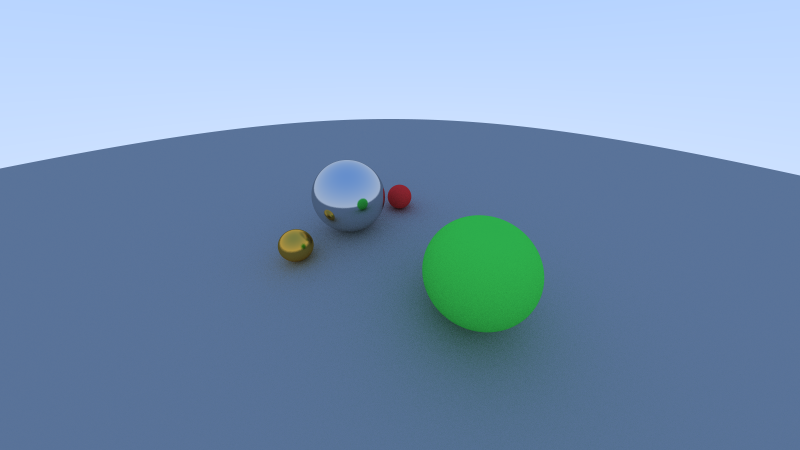
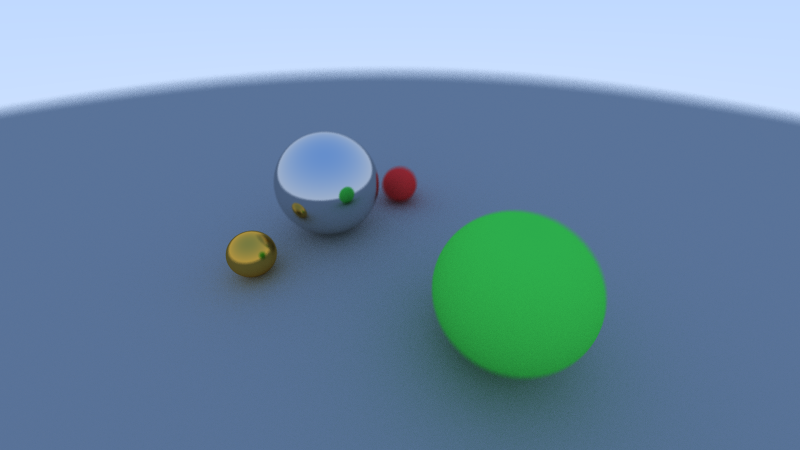
camera: aperture

Changed region(s): [[0.0, 0.1556, 1.0, 0.6533], [0.5, 0.4667, 0.7812, 0.9644]]

diff --git a/src/scene/camera.rs b/src/scene/camera.rs
@@ -1,4 +1,4 @@
-use crate::{ray::Ray, vec3::Coord};
+use crate::{coord_ext::CoordRandomExt, ray::Ray, vec3::Coord};
 
 pub struct Camera {
     pub aspect_ratio: f64,
@@ -7,6 +7,7 @@ pub struct Camera {
     corner: Coord,
     horizontal: Coord,
     vertical: Coord,
+    lens_radius: f64,
 }
 
 impl Camera {
@@ -25,6 +26,8 @@ impl Camera {
         origin: Coord,
         look_at: Coord,
         vup: Coord,
+        aperture: f64,
+        focus_dist: f64,
     ) -> Self {
         let theta = vertical_fov.to_radians();
         let h = (theta / 2.).tan();
@@ -35,9 +38,11 @@ impl Camera {
         let u = vup.cross(w).unit();
         let v = w.cross(u);
 
-        let horizontal = u * vp_width;
-        let vertical = v * vp_height;
-        let corner: Coord = origin - horizontal / 2. - vertical / 2. - w;
+        let horizontal = u * vp_width * focus_dist;
+        let vertical = v * vp_height * focus_dist;
+        let corner: Coord = origin - horizontal / 2. - vertical / 2. - w * focus_dist;
+
+        let lens_radius = aperture / 2.;
 
         Self {
             aspect_ratio,
@@ -45,13 +50,16 @@ impl Camera {
             corner,
             horizontal,
             vertical,
+            lens_radius,
         }
     }
 
     pub fn ray(&self, u: f64, v: f64) -> Ray {
+        let offset_origin = Coord::random_in_unit_z_disk() * self.lens_radius + self.origin;
         let dir: Coord =
-            (self.corner + self.horizontal * u + self.vertical * v - self.origin).unit();
-        Ray::new(self.origin, dir)
+            (self.corner + self.horizontal * u + self.vertical * v - offset_origin).unit();
+
+        Ray::new(offset_origin, dir)
     }
 }
 
@@ -63,18 +71,25 @@ impl Default for Camera {
             Coord::new(0., 0., 0.),
             Coord::new(0., 0., -1.),
             Camera::WORLD_UP,
+            0.,
+            1.,
         )
     }
 }
 
 impl Camera {
-    pub fn new_distant() -> Self {
+    pub fn new_distant(aperture: bool) -> Self {
+        let origin = Coord::new(-1.5, 1.5, 1.5);
+        let look_at = Coord::new(0., 0., 0.);
+        let focus_dist = (look_at - origin).length();
         Self::new(
             Self::WIDE,
-            90.,
-            Coord::new(-1.5, 1.5, 1.5),
-            Coord::new(0., 0., 0.),
+            70.,
+            origin,
+            look_at,
             Camera::WORLD_UP,
+            if aperture { 0.15 } else { 0. },
+            focus_dist,
         )
     }
 }

diff --git a/src/coord_ext.rs b/src/coord_ext.rs
@@ -1,0 +1,37 @@
+use std::f64::consts::PI;
+
+use num::Float;
+use rand::Rng;
+
+use crate::vec3::Coord;
+
+pub trait CoordRandomExt {
+    // Basic
+    fn random_in_unit_sphere() -> Self;
+    // Lambertian
+    fn random_unit_vector() -> Self;
+    // Defocus
+    fn random_in_unit_z_disk() -> Self;
+}
+
+impl CoordRandomExt for Coord {
+    fn random_in_unit_sphere() -> Self {
+        let u = rand::random::<f64>().powf(1. / 3.);
+        Self::random(-1., 1.).unit() * u
+    }
+
+    fn random_unit_vector() -> Self {
+        let mut rng = rand::thread_rng();
+        let a = rng.gen_range(0.0..PI * 2.0);
+        let z = rng.gen_range(-1.0..1.0);
+        let r = (1. - z * z).sqrt();
+        Self::new(r * a.cos(), r * a.sin(), z)
+    }
+
+    fn random_in_unit_z_disk() -> Self {
+        let u = rand::random::<f64>().powf(1. / 2.);
+        let mut v = Self::random(-1., 1.);
+        v.z = 0.;
+        v.unit() * u
+    }
+}

diff --git a/src/material/coord_utils.rs b/src/material/coord_utils.rs
@@ -1,31 +1,4 @@
-use std::f64::consts::PI;
-
-use num::Float;
-use rand::Rng;
-
 use crate::vec3::Coord;
-
-pub trait CoordRandomExt {
-    // Basic
-    fn random_in_unit_sphere() -> Self;
-    // Lambertian
-    fn random_unit_vector() -> Self;
-}
-
-impl CoordRandomExt for Coord {
-    fn random_in_unit_sphere() -> Self {
-        let u = rand::random::<f64>().powf(1. / 3.);
-        Self::random(-1., 1.).unit() * u
-    }
-
-    fn random_unit_vector() -> Self {
-        let mut rng = rand::thread_rng();
-        let a = rng.gen_range(0.0..PI * 2.0);
-        let z = rng.gen_range(-1.0..1.0);
-        let r = (1. - z * z).sqrt();
-        Self::new(r * a.cos(), r * a.sin(), z)
-    }
-}
 
 pub fn reflect(v: Coord, n: Coord) -> Coord {
     let b = n * n.dot(v); // n.unit() * (n.dot(v) / n.length()), both united here

diff --git a/src/main.rs b/src/main.rs
@@ -2,6 +2,7 @@
 
 use anyhow::Result;
 
+mod coord_ext;
 mod hit_scatter;
 mod material;
 mod object;
@@ -12,7 +13,7 @@ mod scene;
 mod vec3;
 
 fn main() -> Result<()> {
-    render::render(&scene::examples::glass_scene())?;
+    render::render(&scene::examples::simple_scene())?;
 
     Ok(())
 }

diff --git a/src/scene/examples/mod.rs b/src/scene/examples/mod.rs
@@ -28,7 +28,7 @@ pub fn simple_scene() -> Scene<'static> {
             Box::new(right_sphere),
             Box::new(ground),
         ]),
-        camera: Camera::new_distant(),
+        camera: Camera::new_distant(true),
         name: "simple",
     }
 }

diff --git a/src/material/diffuse.rs b/src/material/diffuse.rs
@@ -4,8 +4,8 @@ use crate::{
     vec3::{Coord, RelColor},
 };
 
-use super::{coord_utils, Material};
-use coord_utils::CoordRandomExt;
+use super::Material;
+use crate::coord_ext::CoordRandomExt;
 
 #[derive(Clone)]
 pub enum DiffuseMethod {

diff --git a/src/material/metal.rs b/src/material/metal.rs
@@ -5,7 +5,7 @@ use crate::{
 };
 
 use super::{coord_utils, Material};
-use coord_utils::CoordRandomExt;
+use crate::coord_ext::CoordRandomExt;
 
 #[derive(Clone)]
 pub struct Metal {
